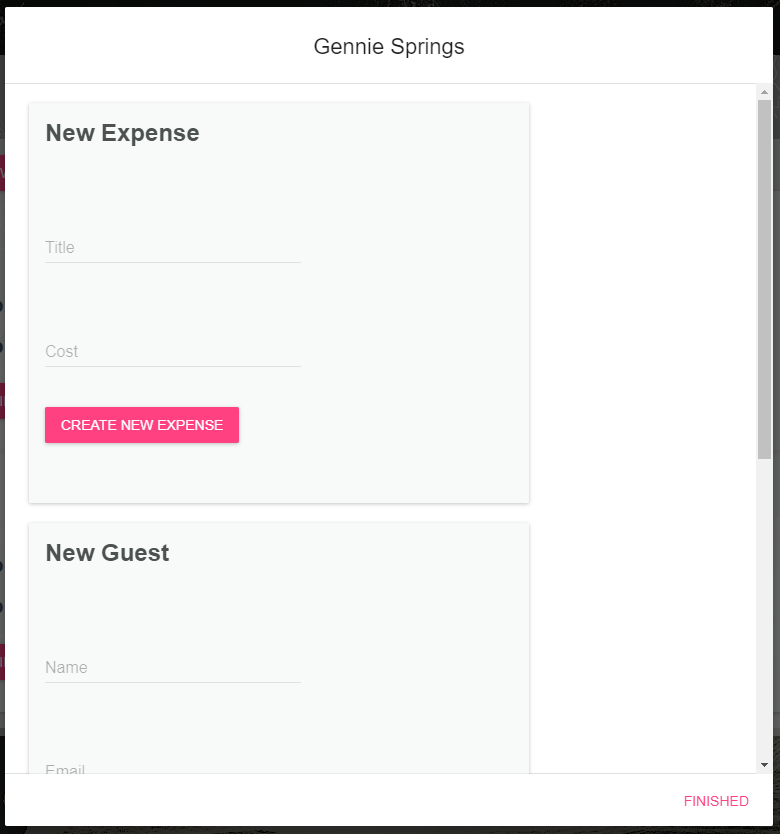
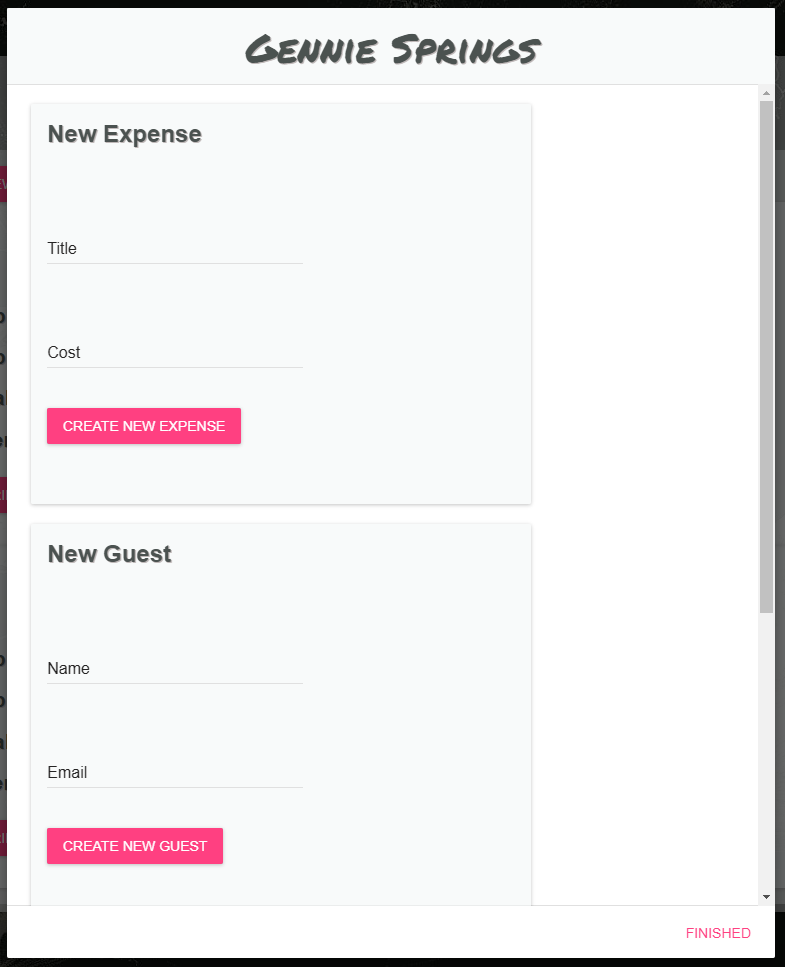
final style and deploy

diff --git a/client/dist/js/app.js b/client/dist/js/app.js
@@ -17837,24 +17837,31 @@ var _RaisedButton2 = _interopRequireDefault(_RaisedButton);
 
 function _interopRequireDefault(obj) { return obj && obj.__esModule ? obj : { default: obj }; }
 
+var style = {
+	color: '#4b5250',
+	fontFamily: 'Permanent Marker',
+	textShadow: '1px 1px rgb(191, 184, 184)',
+	fontSize: '70px',
+	paddingTop: '20px'
+};
+
 var HomePage = function HomePage() {
 	return _react2.default.createElement(
 		_Card.Card,
 		{ className: 'container home' },
+		_react2.default.createElement(_Card.CardTitle, {
+			title: 'Welcome to TripWise!',
+			titleStyle: style
+		}),
 		_react2.default.createElement(
 			_Card.CardText,
 			null,
 			_react2.default.createElement(
-				'h1',
-				{ className: 'card-heading welcome' },
-				'Welcome to TripWise!'
-			),
-			_react2.default.createElement(
 				'h2',
 				{ className: 'card-sub' },
-				'Where you can easily keep track of the expenses and the guests you have on trips you are planning. '
+				'Where you can easily keep track of trips you are planning. Manage your trip expenses, guests, the total cost of a trip and how much each guest owes. '
 			),
-			_react2.default.createElement('img', { className: 'homeimg', src: '../js/img/home.png', alt: 'home' }),
+			_react2.default.createElement('img', { className: 'homeimg', src: '../js/img/finalhome.png', alt: 'home' }),
 			_react2.default.createElement(
 				'h3',
 				null,
@@ -18272,6 +18279,7 @@ var DashboardPage = function (_React$Component) {
 
     //bind is used to set this.state to function
     _this.iterateTrips = _this.iterateTrips.bind(_this);
+    _this.sumValue = _this.sumValue.bind(_this);
     _this.handleTripOpen = _this.handleTripOpen.bind(_this);
     _this.handleOpen = _this.handleOpen.bind(_this);
     _this.handleClose = _this.handleClose.bind(_this);
@@ -18664,6 +18672,17 @@ var DashboardPage = function (_React$Component) {
         newGuest: newGuest
       });
     }
+  }, {
+    key: 'sumValue',
+    value: function sumValue(array) {
+      var currentArray = array;
+      var reducer = function reducer(accum, currentVal) {
+        return accum + parseFloat(currentVal.cost);
+      };
+      var total = currentArray.reduce(reducer, 0);
+      console.log("total", total);
+      return total;
+    }
 
     // iterate through trips and get trip data
 
@@ -18679,7 +18698,17 @@ var DashboardPage = function (_React$Component) {
         onClick: this.handleClose
       })];
 
+      var style = {
+        backgroundColor: 'rgba(243, 247, 247, 0.57)',
+        color: '#4b5250',
+        fontFamily: 'Permanent Marker',
+        textShadow: '1px 1px rgb(191, 184, 184)',
+        fontSize: '40px'
+      };
+
       return this.state.trips.map(function (trip, index) {
+        var tripSum = _this8.sumValue(trip.expenses).toFixed(2);
+        var perPerson = (tripSum / trip.guests.length).toFixed(2);
         return _react2.default.createElement(
           _Card.Card,
           { key: trip._id, className: 'smallcontainer trip' },
@@ -18713,6 +18742,18 @@ var DashboardPage = function (_React$Component) {
               ' Guests'
             ),
             _react2.default.createElement(
+              'h2',
+              null,
+              'The total trip cost is $',
+              tripSum
+            ),
+            _react2.default.createElement(
+              'h2',
+              null,
+              'Each person on this trip owes $',
+              perPerson
+            ),
+            _react2.default.createElement(
               _Card.CardActions,
               { className: 'eachtrip' },
               _react2.default.createElement(_RaisedButton2.default, { className: 'button', label: 'Edit Trip', onClick: _this8.handleOpen.bind(_this8, trip._id), secondary: true }),
@@ -18721,6 +18762,7 @@ var DashboardPage = function (_React$Component) {
                 {
                   className: 'dialog',
                   title: trip.trip,
+                  titleStyle: style,
                   actions: actions,
                   modal: true,
                   open: _this8.state.open === trip._id,
@@ -18753,8 +18795,8 @@ var DashboardPage = function (_React$Component) {
                       'h3',
                       { className: 'items' },
                       expense.title,
-                      ': ',
-                      expense.cost,
+                      ': $',
+                      parseFloat(expense.cost).toFixed(2),
                       _react2.default.createElement(_DeleteBtn2.default, {
                         onClick: _this8.handleDelete.bind(_this8, trip._id, "expenses", index)
                       })
@@ -18800,12 +18842,28 @@ var DashboardPage = function (_React$Component) {
         onClick: this.handleClose
       })];
 
+      var style = {
+        color: '#282b2a',
+        fontFamily: 'Permanent Marker',
+        textShadow: '1px 1px rgb(191, 184, 184)',
+        fontSize: '30px'
+      };
+
+      var subStyle = {
+        color: '#282b2a',
+        fontFamily: 'Roboto Slab',
+        textShadow: '1px 1px rgb(191, 184, 184)',
+        fontSize: '20px'
+      };
+
       return _react2.default.createElement(
         _Card.Card,
         { className: 'container' },
         _react2.default.createElement(_Card.CardTitle, {
           className: 'cardtitle',
           title: 'Welcome to Your Trips Page',
+          titleStyle: style,
+          subtitleStyle: subStyle,
           subtitle: this.state.username
         }),
         _react2.default.createElement(

diff --git a/client/src/containers/DashboardPage.jsx b/client/src/containers/DashboardPage.jsx
@@ -49,6 +49,7 @@ class DashboardPage extends React.Component {
 
     //bind is used to set this.state to function
     this.iterateTrips = this.iterateTrips.bind(this);
+    this.sumValue = this.sumValue.bind(this);
     this.handleTripOpen = this.handleTripOpen.bind(this);
     this.handleOpen = this.handleOpen.bind(this);
     this.handleClose = this.handleClose.bind(this);
@@ -402,6 +403,15 @@ class DashboardPage extends React.Component {
     });
   }
 
+sumValue(array) {
+  const currentArray = array;
+  const reducer = (accum, currentVal) => accum + parseFloat(currentVal.cost);
+  const total = currentArray.reduce(reducer, 0);
+  console.log("total", total);
+  return(
+    total
+    )
+}
 
 // iterate through trips and get trip data
 
@@ -415,8 +425,19 @@ iterateTrips() {
       />,
     ];
 
+    const style = {
+      backgroundColor: 'rgba(243, 247, 247, 0.57)',
+      color: '#4b5250',
+      fontFamily: 'Permanent Marker',
+      textShadow: '1px 1px rgb(191, 184, 184)',
+      fontSize: '40px'
+    }
+
   return(
-    this.state.trips.map((trip, index) => (
+    this.state.trips.map((trip, index) => {
+      const tripSum = (this.sumValue(trip.expenses)).toFixed(2);
+      const perPerson = (tripSum/trip.guests.length).toFixed(2);
+      return (
       <Card key={trip._id} className = "smallcontainer trip">
         <CardActions>
           <DeleteBtn 
@@ -425,14 +446,17 @@ iterateTrips() {
         </CardActions>
         <CardText>
             <h1>{trip.trip}</h1>
-                        
+             
             <h2>This trip has {trip.expenses.length} Expenses</h2>
             <h2>This trip has {trip.guests.length} Guests</h2>
+            <h2>The total trip cost is ${tripSum}</h2>
+            <h2>Each person on this trip owes ${perPerson}</h2>
             <CardActions className="eachtrip">
               <RaisedButton className='button' label='Edit Trip' onClick={this.handleOpen.bind(this, trip._id)} secondary/>
               <Dialog
                 className='dialog'
                 title={trip.trip}
+                titleStyle={style}
                 actions={actions}
                 modal={true}
                 open={this.state.open === trip._id}
@@ -456,12 +480,13 @@ iterateTrips() {
                 {
                   trip.expenses.map((expense, index) => (
                     <div className = "itemRow">
-                        <h3 className='items'>{expense.title}: {expense.cost}<DeleteBtn 
+                        <h3 className='items'>{expense.title}: ${parseFloat(expense.cost).toFixed(2)}<DeleteBtn 
                           onClick={this.handleDelete.bind(this, trip._id, "expenses", index)} 
                         /></h3>
                     </div>
                   ))
                 }
+                
                 <h2 className='itemstitle'>Guests</h2>
                 {
                   trip.guests.map((guest, index) => (
@@ -477,7 +502,8 @@ iterateTrips() {
           </CardText>
 
       </Card>
-    ))
+    )
+    })
   )
 }
 
@@ -492,11 +518,27 @@ iterateTrips() {
       />,
     ];
 
+    const style = {
+      color: '#282b2a',
+      fontFamily: 'Permanent Marker',
+      textShadow: '1px 1px rgb(191, 184, 184)',
+      fontSize: '30px'
+    }
+
+    const subStyle = {
+      color: '#282b2a',
+      fontFamily: 'Roboto Slab',
+      textShadow: '1px 1px rgb(191, 184, 184)',
+      fontSize: '20px'
+    }
+
     return (
       <Card className="container">
         <CardTitle
           className="cardtitle"
           title="Welcome to Your Trips Page" 
+          titleStyle={style}
+          subtitleStyle={subStyle}
           subtitle={this.state.username}
         />
         <CardText className="content">

diff --git a/client/src/components/HomePage.jsx b/client/src/components/HomePage.jsx
@@ -3,12 +3,23 @@ import { Card, CardTitle, CardText } from 'material-ui/Card';
 import { Link } from 'react-router';
 import RaisedButton from 'material-ui/RaisedButton';
 
+const style ={
+	color: '#4b5250',
+	fontFamily: 'Permanent Marker',
+	textShadow: '1px 1px rgb(191, 184, 184)',
+	fontSize: '70px', 
+	paddingTop: '20px'
+}
+
 const HomePage = () => (
   <Card className="container home">
+  	<CardTitle
+  		title='Welcome to TripWise!'
+  		titleStyle={style}
+  	/>
 	<CardText>
-		<h1 className="card-heading welcome">Welcome to TripWise!</h1>
-	  	<h2 className="card-sub">Where you can easily keep track of the expenses and the guests you have on trips you are planning. </h2>
-	  	<img className="homeimg" src="../js/img/home.png" alt="home"></img>
+	  	<h2 className="card-sub">Where you can easily keep track of trips you are planning. Manage your trip expenses, guests, the total cost of a trip and how much each guest owes. </h2>
+	  	<img className="homeimg" src="../js/img/finalhome.png" alt="home"></img>
 		<h3>Signup or Login to begin tracking your Trips. </h3>
 		<Link className='bottomlink' to={'/signup'}><RaisedButton className='button' type="submit" label="Get Started Now!" secondary /></Link>
 

diff --git a/server/static/css/style.css b/server/static/css/style.css
@@ -4,8 +4,8 @@ body {
   font-size: 16px;
   font-family: 'Roboto Slab', serif;
   background-image: url("../images/mapmod.jpg");
-/*  text-shadow: 3px 3px rgb(53, 51, 51);
-*/}
+  text-shadow: .25px .25px rgb(53, 51, 51);
+}
 
 a {
   color: #69f9c5;
@@ -107,7 +107,7 @@ a:hover {
   text-align: center;
   font-weight: bold;
   color:#4b5250;
-  /*text-shadow: 1px 1px rgb(191, 184, 184);*/
+  text-shadow: 1px 1px rgb(191, 184, 184);
 }
 
 .field-line, .button-line {
@@ -142,13 +142,13 @@ a:hover {
 
 h1, h3, .itemstitle {
   text-align: center;
-/*  text-shadow: 1px 1px rgb(191, 184, 184);
-*/}
+  text-shadow: 1px 1px rgb(191, 184, 184);
+}
 
 h1, h2, h3{
   color:#4b5250;
-/*  text-shadow: 1px 1px rgb(191, 184, 184);
-*/}
+  text-shadow: 1px 1px rgb(191, 184, 184);
+}
 
 .items {
   text-align: left;
